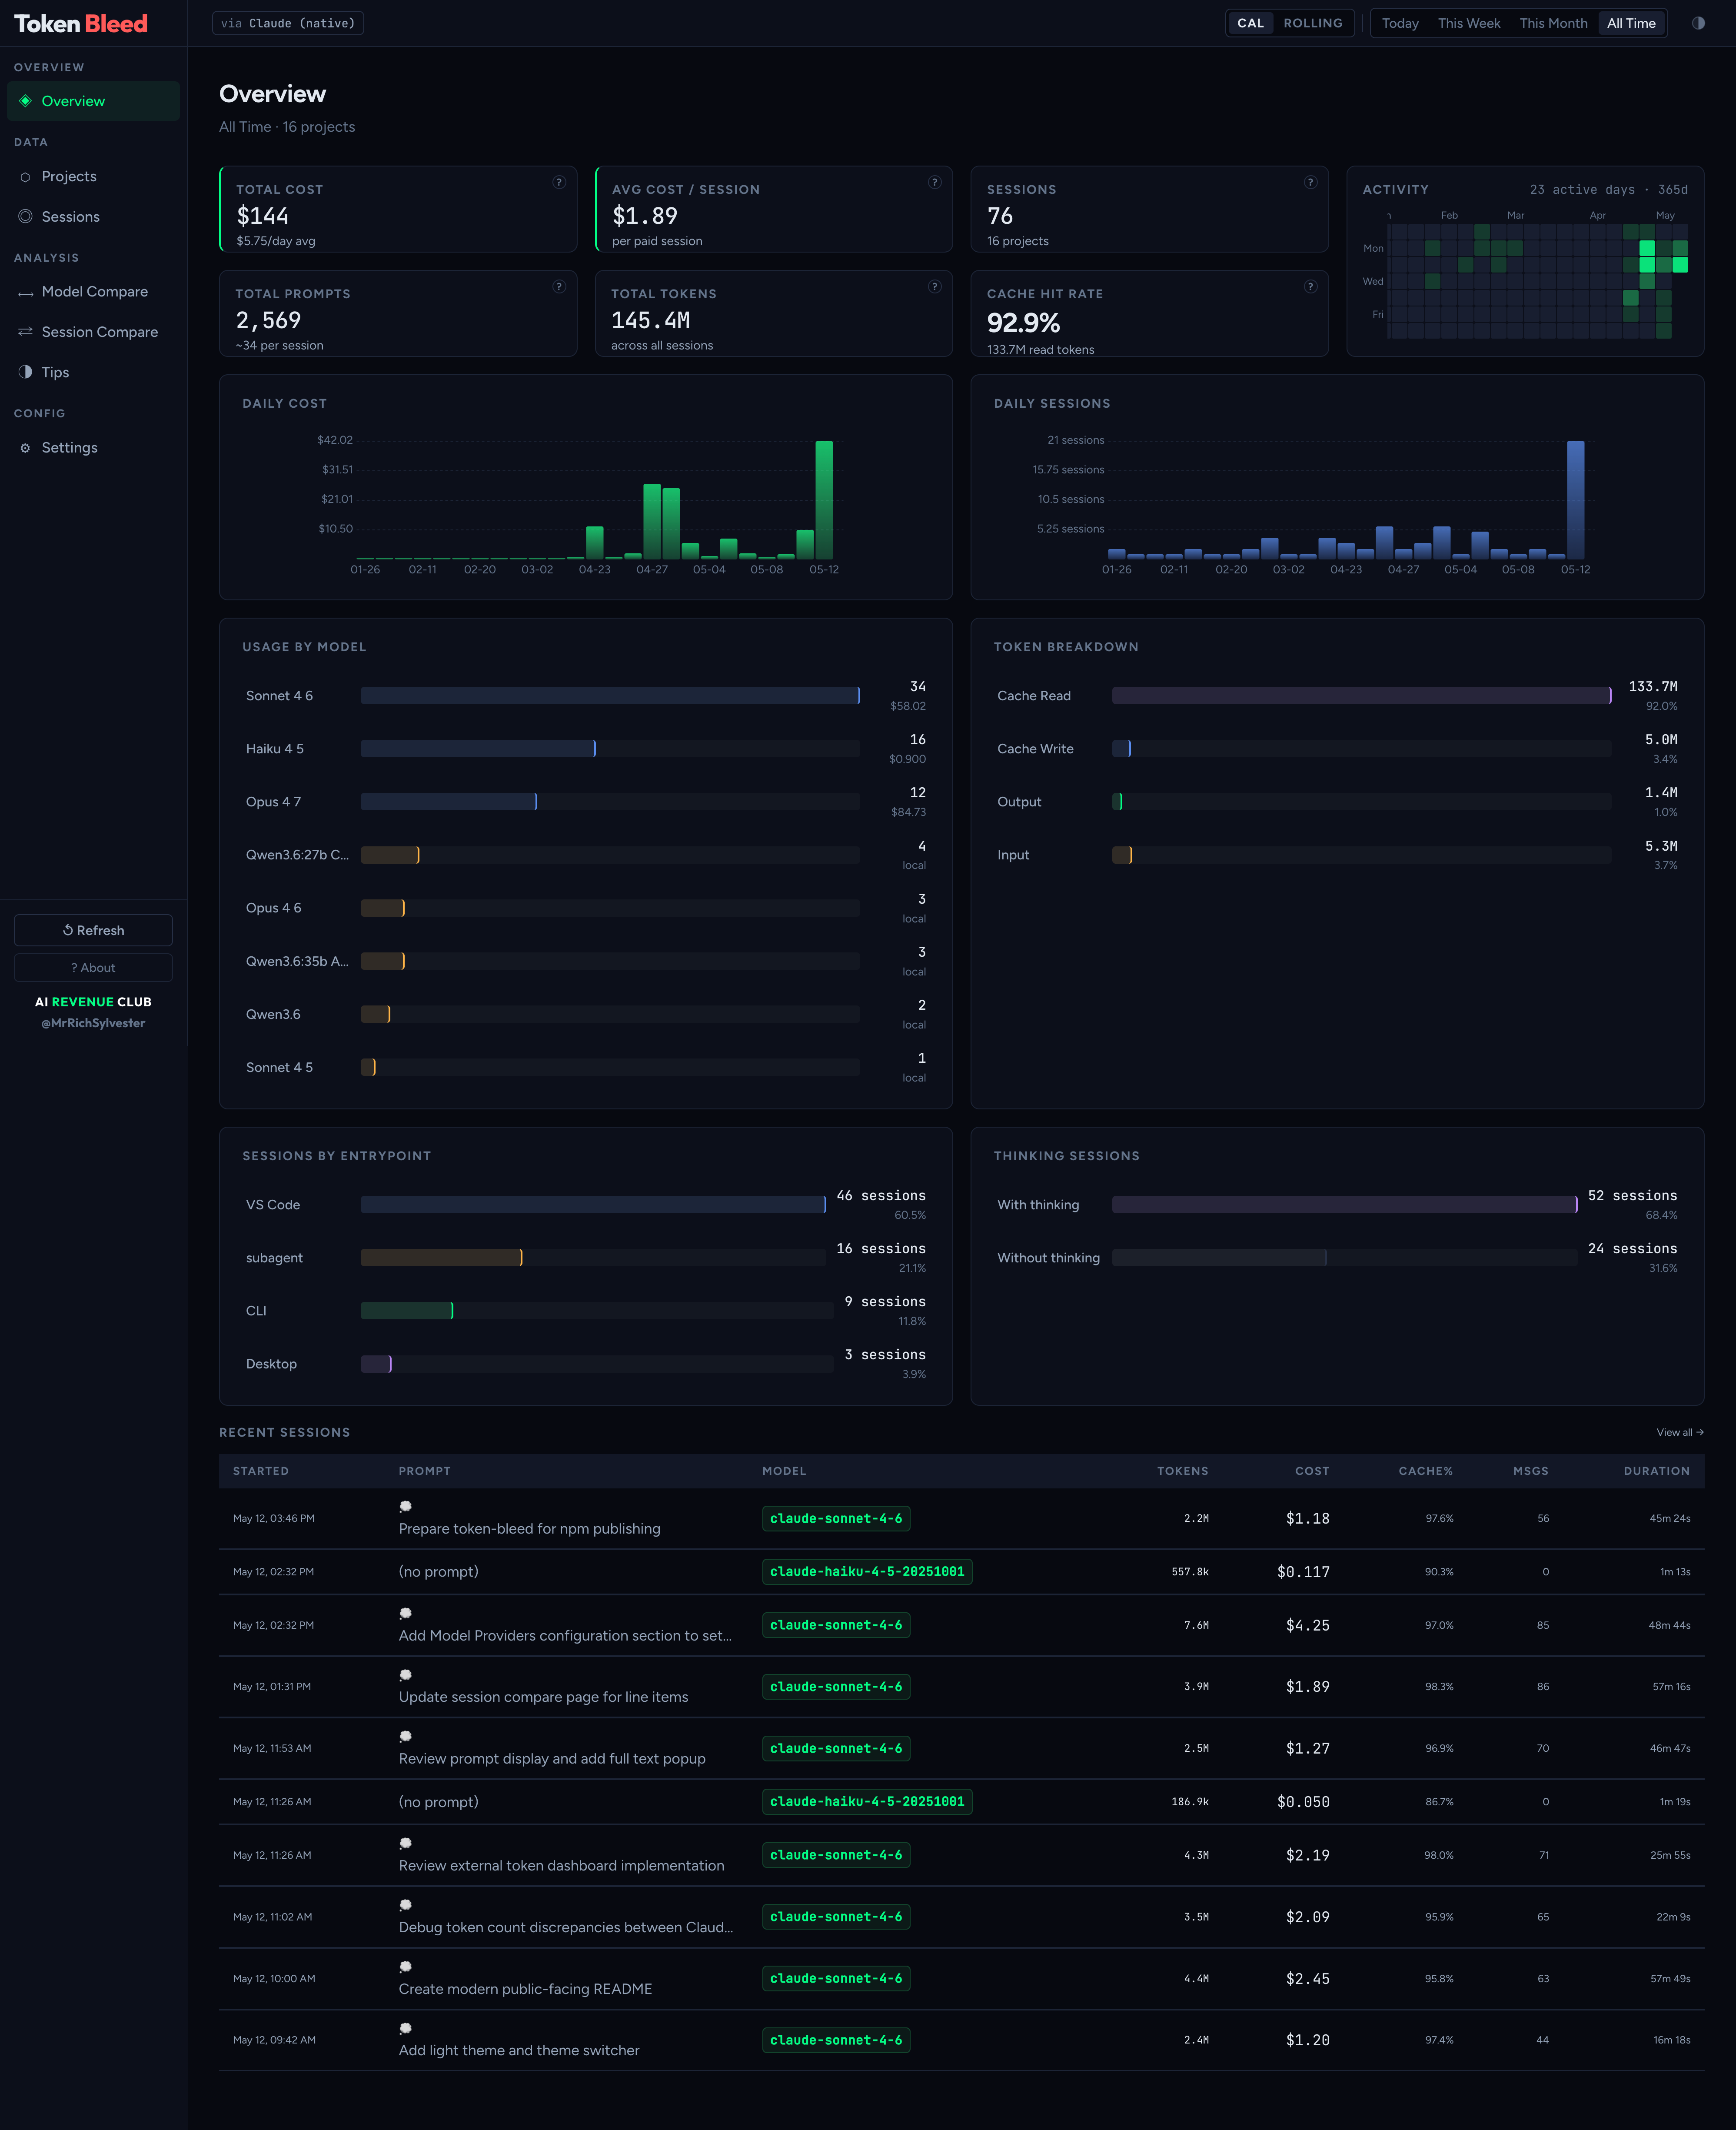
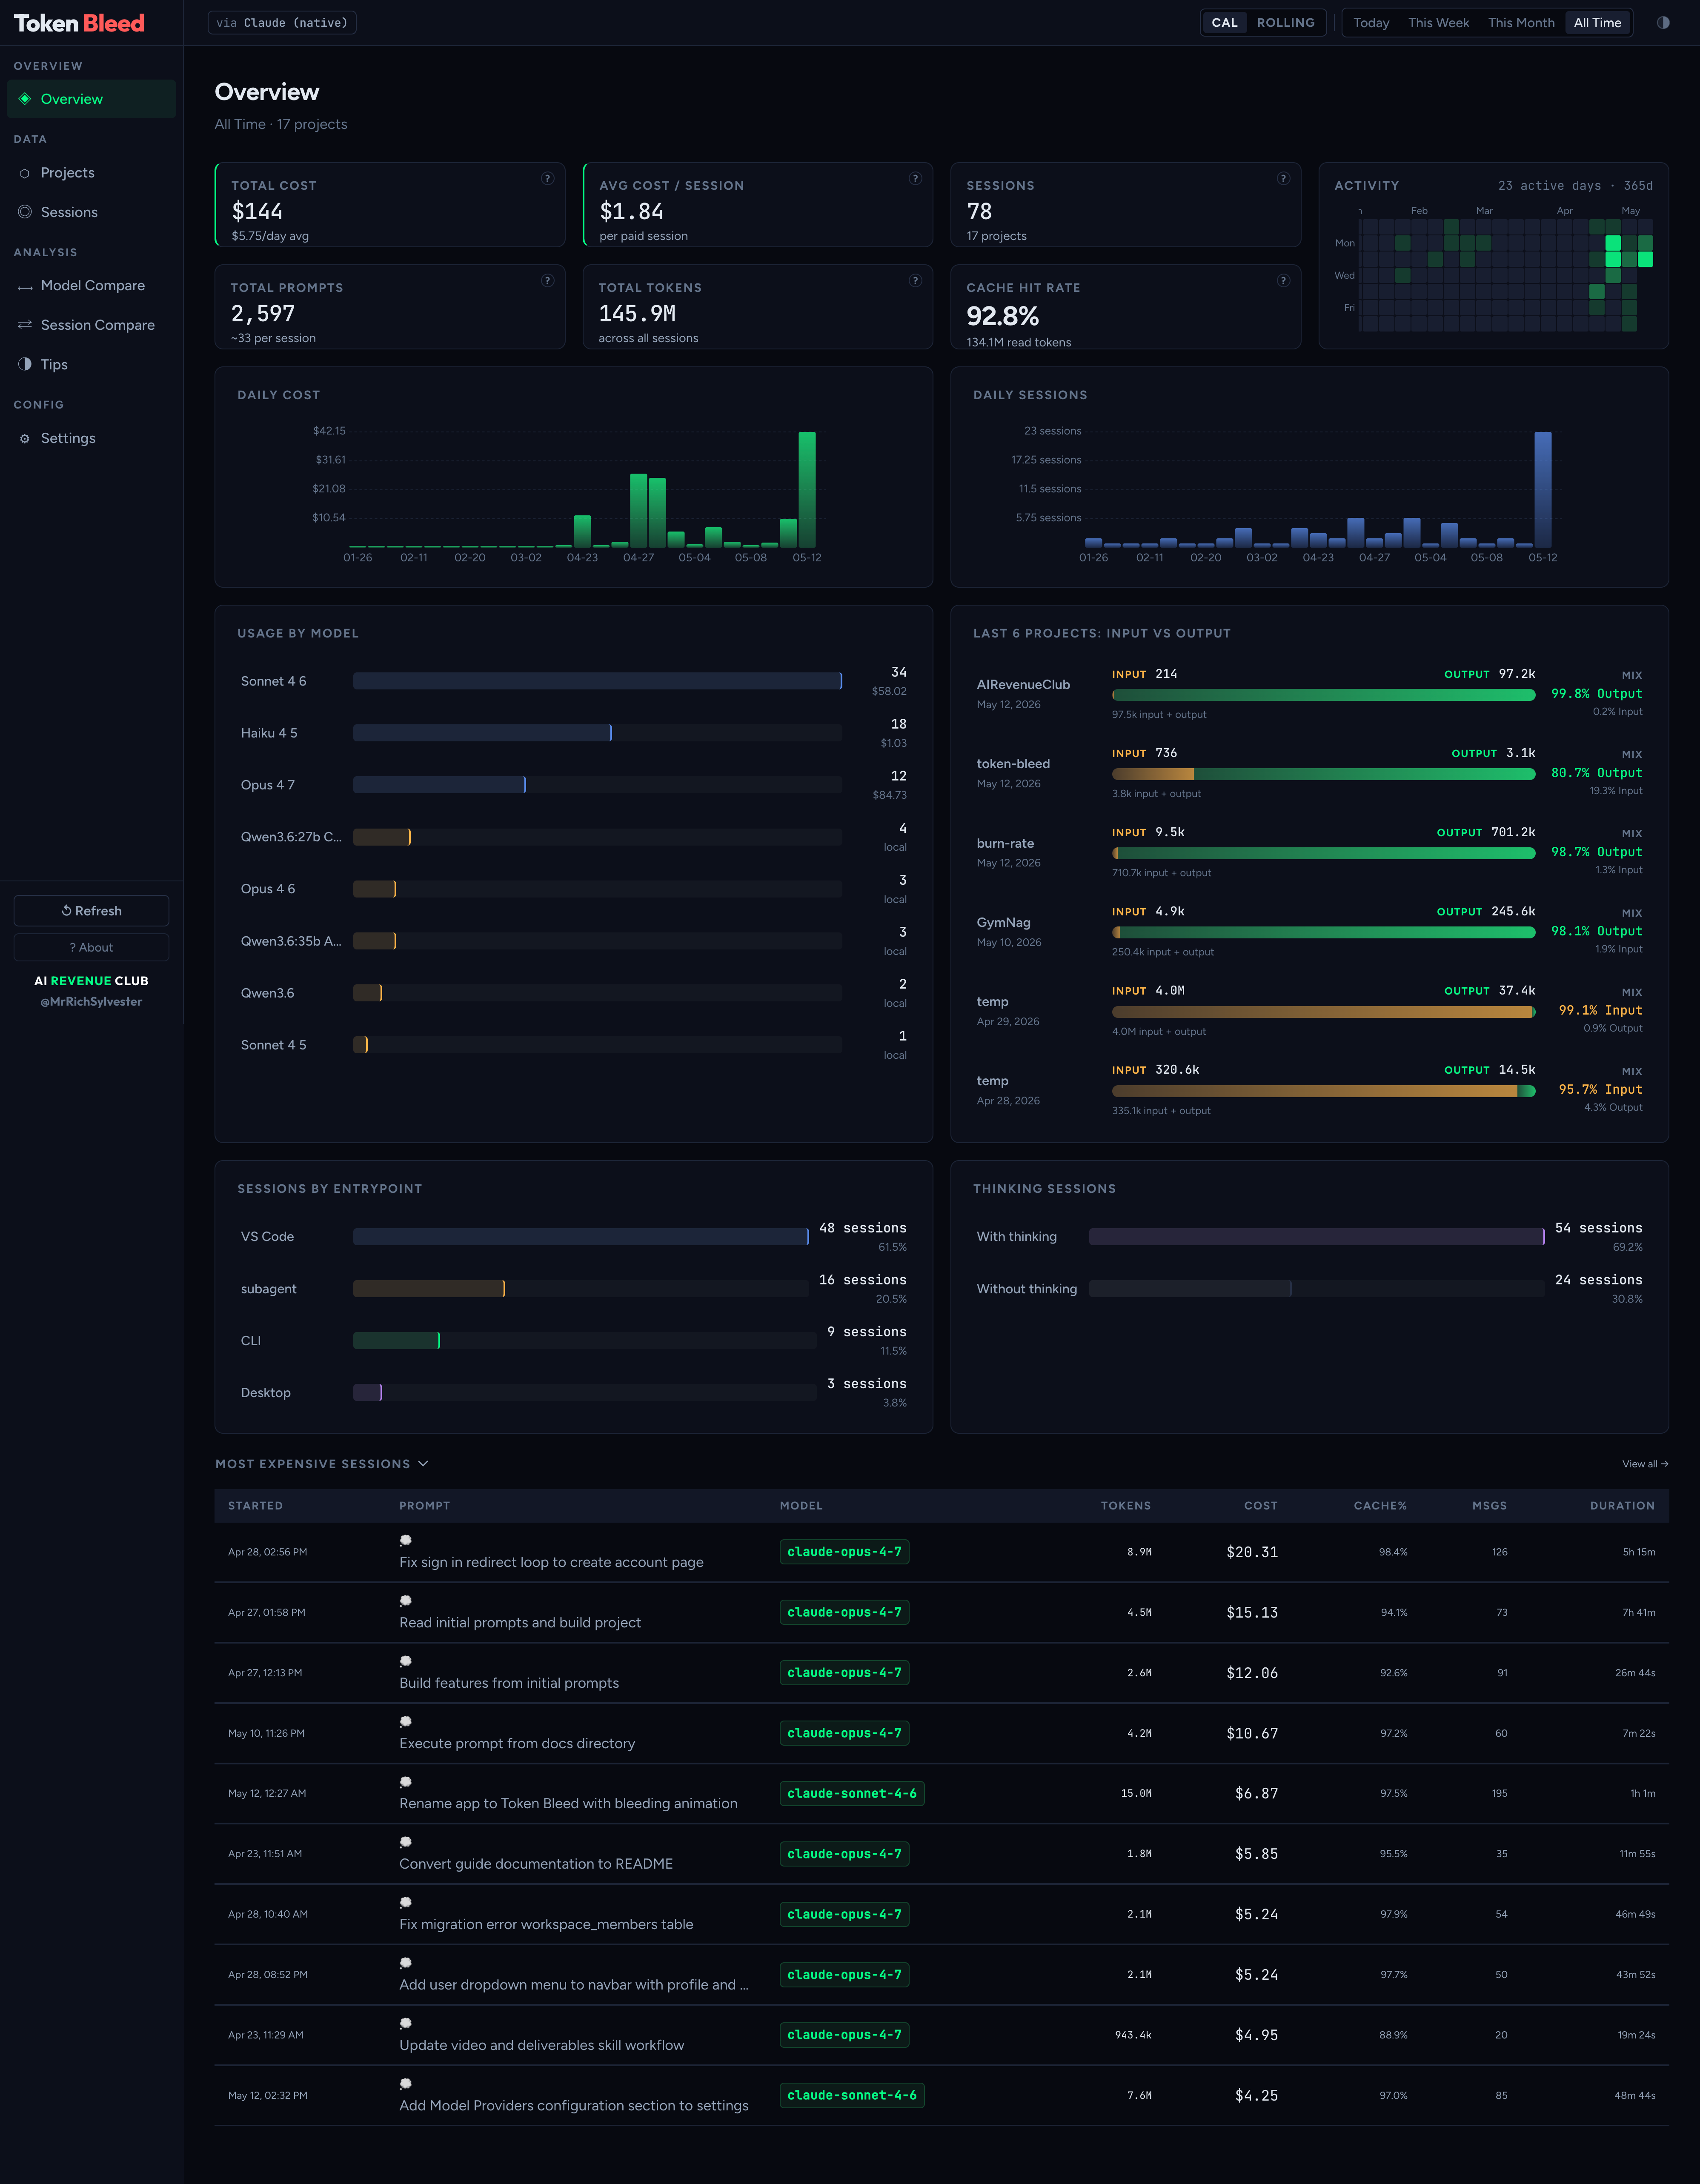
chore: update documentation layout, bump version to 0.1.3, and add dashboard assets

diff --git a/README.md b/README.md
@@ -7,16 +7,18 @@
 
 ---
 
+### Quick start (recommended)
+```bash
+npx token-bleed
+```
+
+---
+
 ![Dashboard Overview](images/dashboard.png)
 
 ---
 
 ## Installation
-
-### Quick start (recommended)
-```bash
-npx token-bleed
-```
 
 ### Install permanently
 ```bash